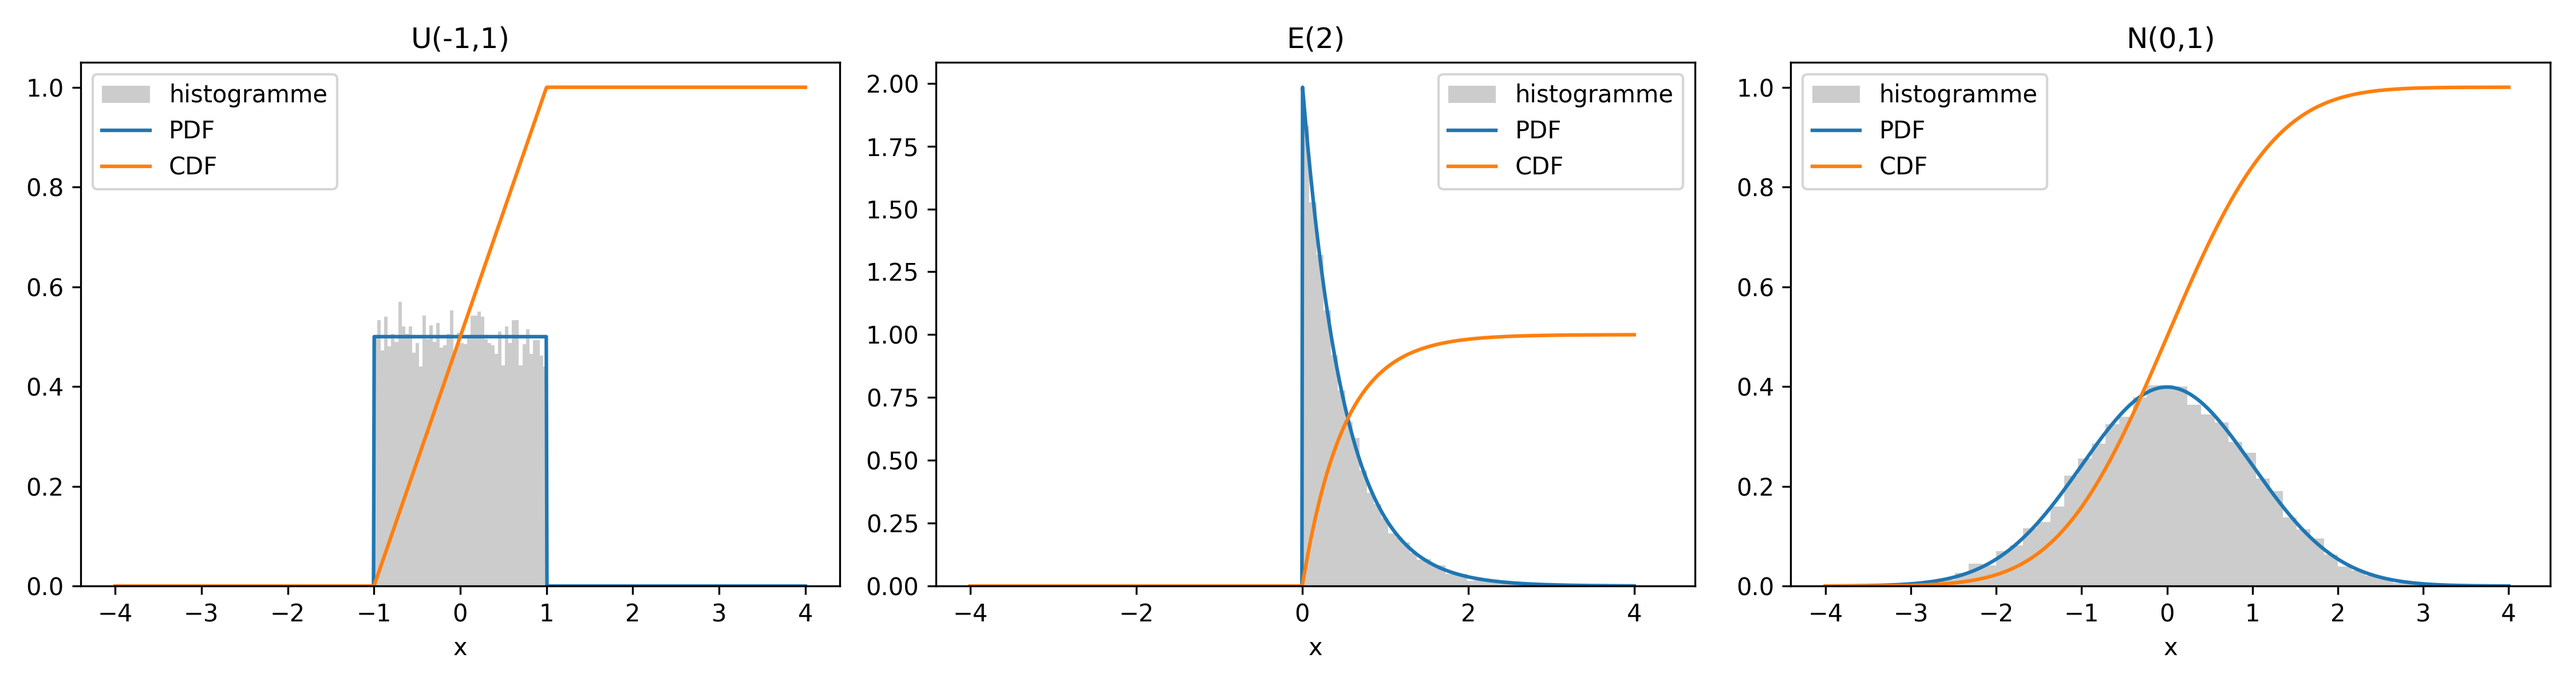
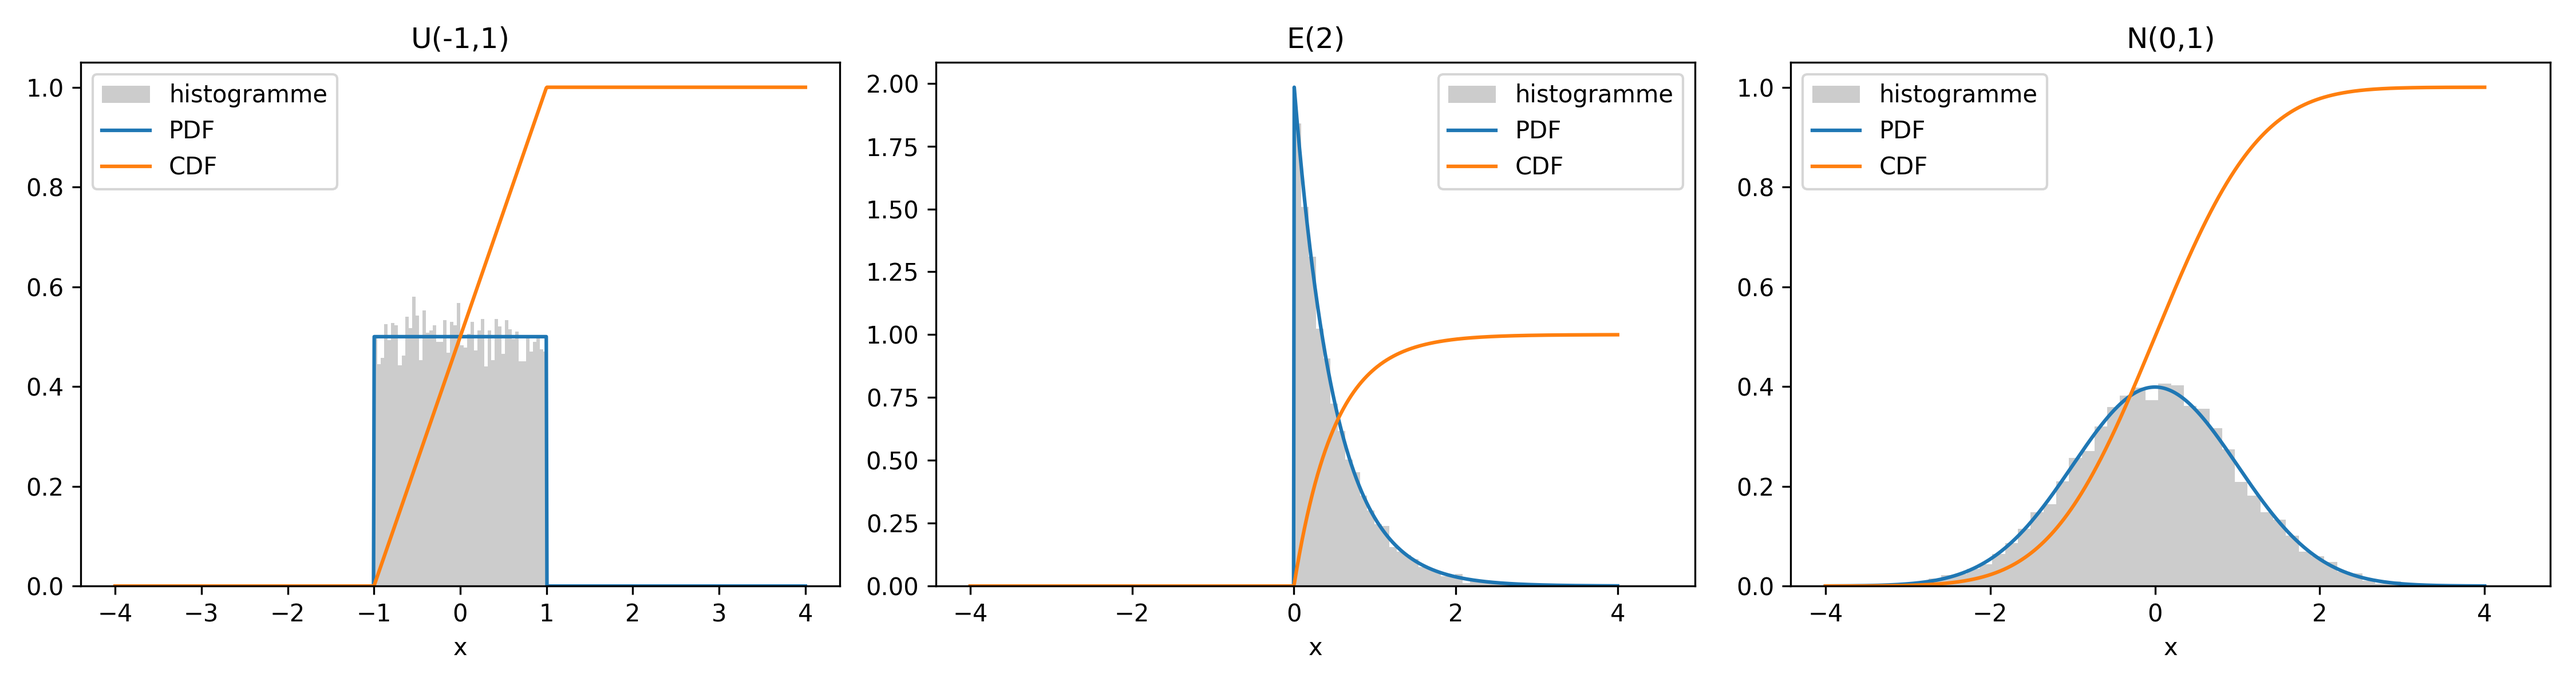
exo 4 du TD8, loi du xi *2

diff --git a/td8/td8.py b/td8/td8.py
@@ -104,7 +104,7 @@ x = np.linspace(-4, 4, 1000)
 fig, axes = plt.subplots(1, 3, figsize=(15, 4))
 
 for ax, (nom, loi) in zip(axes, lois.items()):
-    echantillon = loi.rvs(size=n). #histogramme
+    echantillon = loi.rvs(size=n) #histogramme
     ax.hist(echantillon, bins=50, density=True, alpha=0.4,
             color="gray", label="histogramme")
 
@@ -124,10 +124,31 @@ plt.show()
 ## chi2
 ##------------------------------
 
+'''
+chi2 sert à comparer un histogramme empirique
+à une densité théorique (test du χ2)
+'''
+k=5
+N_values = np.logspace(1, 6, 50).astype(int)
 
+mean_emp = np.empty_like(N_values,dtype=float)
+var_emp = np.empty_like(N_values,dtype=float)
 
-k = 5      
-Ns = np.logspace(1,6,num=50).astype(int)
+for i,N_i in enumerate(N_values):
+    Z = rng.normal(size=(int(N_i), k))
+    data_chi2 = np.sum(Z**2, axis=1)
+    mean_emp[i] = np.mean(data_chi2)
+    var_emp[i] = np.var(data_chi2)
+
+esp_th, var_th = st.chi2.stats(k, moments='mv')
+plt.figure()
+plt.plot(N_values, mean_emp, "x", color='k', label='mean')
+plt.plot(N_values, var_emp, "x", color='b', label='var')
+plt.axhline(esp_th, color='k')
+plt.axhline(var_th, color='b')
+plt.legend()
+plt.xlabel('Sample size $N$')
+plt.savefig('chi2_mean_var.png', dpi=300)
 
 
 plt.show()
